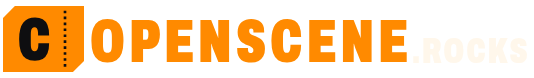
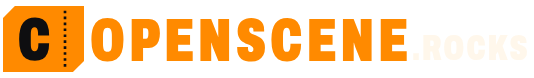
Set the ticket C on the caps' baseline, as the site's bar does
Refs forsmark/copenscene#885

Claude-Session: https://claude.ai/code/session_01S1PbDtptk7peUnieoi1ojJ

diff --git a/404.html b/404.html
@@ -86,7 +86,7 @@
         height: 1.1em;
         width: 1.364em;
         margin-right: 0.08em;
-        vertical-align: -0.175em;
+        vertical-align: -0.18em;
       }
       .wordmark-domain {
         font-size: 0.6em;

diff --git a/index.html b/index.html
@@ -86,7 +86,7 @@
         height: 1.1em;
         width: 1.364em;
         margin-right: 0.08em;
-        vertical-align: -0.175em;
+        vertical-align: -0.18em;
       }
       .wordmark-domain {
         font-size: 0.6em;
